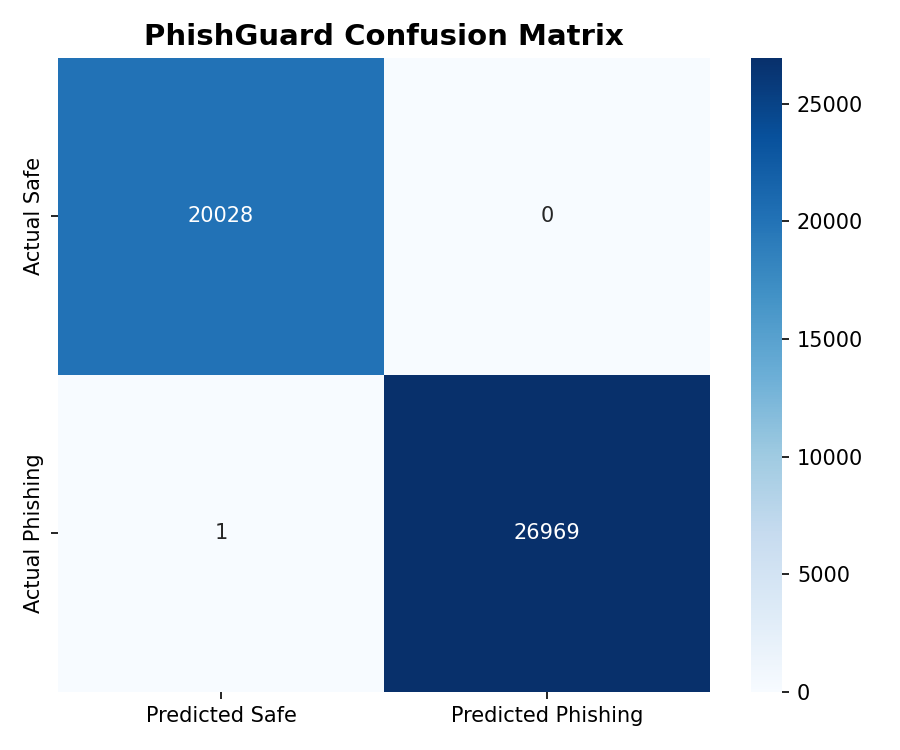
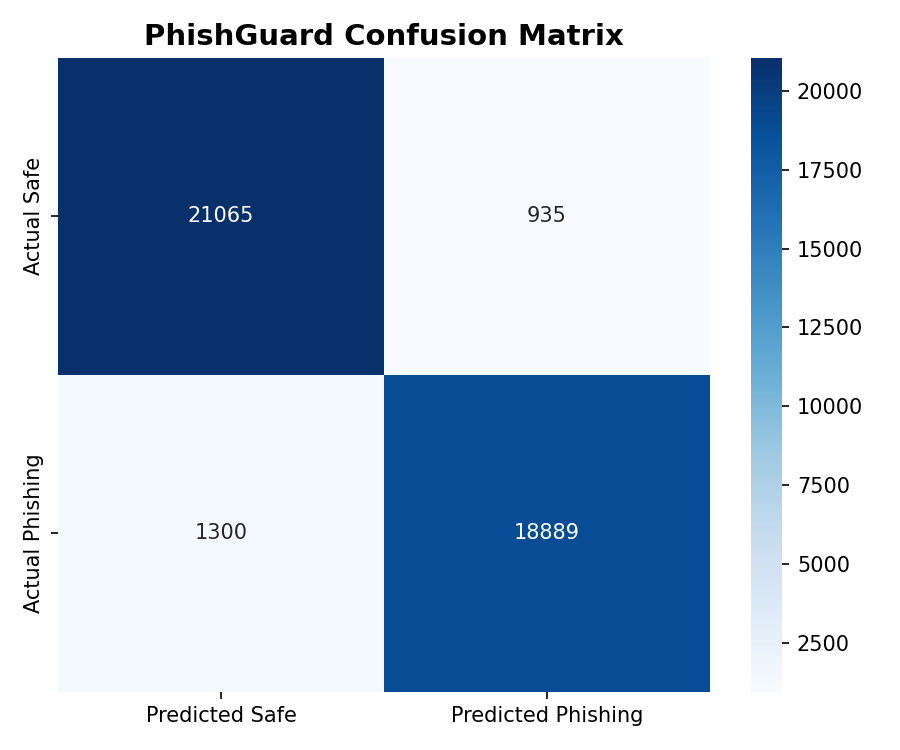
Retrain 21-feature Random Forest model with tuned hyperparameters and verify parity

diff --git a/ml-pipeline/train.py b/ml-pipeline/train.py
@@ -336,24 +336,24 @@ def preprocess_data(X, y):
 
 
 def train_random_forest(X_train, y_train):
-    """Train with 10-fold cross-validation."""
+    """Train with 5-fold cross-validation using tuned hyperparameters."""
     rf = RandomForestClassifier(
-        n_estimators=100,        # 100 trees
-        max_depth=20,            # Prevent overfitting
-        min_samples_split=5,
-        min_samples_leaf=2,
-        max_features='sqrt',     # Random subspace
+        n_estimators=300,
+        max_depth=None,
+        min_samples_split=2,
+        min_samples_leaf=1,
+        max_features='log2',
         random_state=42,
         n_jobs=-1,
         class_weight='balanced'
     )
 
-    # 10-fold stratified cross-validation
-    print("\nRunning 10-fold stratified cross-validation...")
-    cv = StratifiedKFold(n_splits=10, shuffle=True, random_state=42)
+    # 5-fold stratified cross-validation
+    print("\nRunning 5-fold stratified cross-validation...")
+    cv = StratifiedKFold(n_splits=5, shuffle=True, random_state=42)
     cv_scores = cross_val_score(rf, X_train, y_train, cv=cv, scoring='accuracy')
 
-    print(f"  10-Fold CV Accuracy: {cv_scores.mean():.4f} (+/- {cv_scores.std() * 2:.4f})")
+    print(f"  5-Fold CV Accuracy: {cv_scores.mean():.4f} (+/- {cv_scores.std() * 2:.4f})")
     print(f"  Per-fold: {[f'{s:.4f}' for s in cv_scores]}")
 
     # Train on full training set

diff --git a/ml-pipeline/features/feature_config.py b/ml-pipeline/features/feature_config.py
@@ -26,10 +26,12 @@ train/inference parity. See SOURCE_OF_TRUTH.md.
 # character ratios. These separate real phishing (.tk/.gq TLDs, typosquats, digits,
 # obfuscation) from legitimate sites without keying on raw URL length.
 LEXICAL_FEATURES = [
-    'IsDomainIP', 'URLSimilarityIndex', 'CharContinuationRate',
-    'TLDLegitimateProb', 'URLCharProb', 'NoOfSubDomain',
-    'HasObfuscation', 'ObfuscationRatio', 'LetterRatioInURL',
-    'DegitRatioInURL', 'SpacialCharRatioInURL', 'IsHTTPS'
+    'URLLength', 'DomainLength', 'IsDomainIP', 'URLSimilarityIndex',
+    'CharContinuationRate', 'TLDLegitimateProb', 'URLCharProb', 'NoOfSubDomain',
+    'HasObfuscation', 'NoOfObfuscatedChar', 'ObfuscationRatio', 'NoOfLettersInURL',
+    'LetterRatioInURL', 'NoOfDegitsInURL', 'DegitRatioInURL', 'NoOfEqualsInURL',
+    'NoOfQMarkInURL', 'NoOfAmpersandInURL', 'NoOfOtherSpecialCharsInURL',
+    'SpacialCharRatioInURL', 'IsHTTPS'
 ]
 
 # Dropped from the model (train/serve skew). Kept here, empty, so any
@@ -38,7 +40,7 @@ DOMAIN_FEATURES = []
 CONTENT_FEATURES = []
 
 ALL_FEATURES = LEXICAL_FEATURES + DOMAIN_FEATURES + CONTENT_FEATURES
-assert len(ALL_FEATURES) == 12  # v4 robust scale-invariant lexical subset
+assert len(ALL_FEATURES) == 21  # v4 robust scale-invariant lexical subset
 
 FEATURE_CATEGORIES = {
     'URL_STRUCTURE': LEXICAL_FEATURES,
